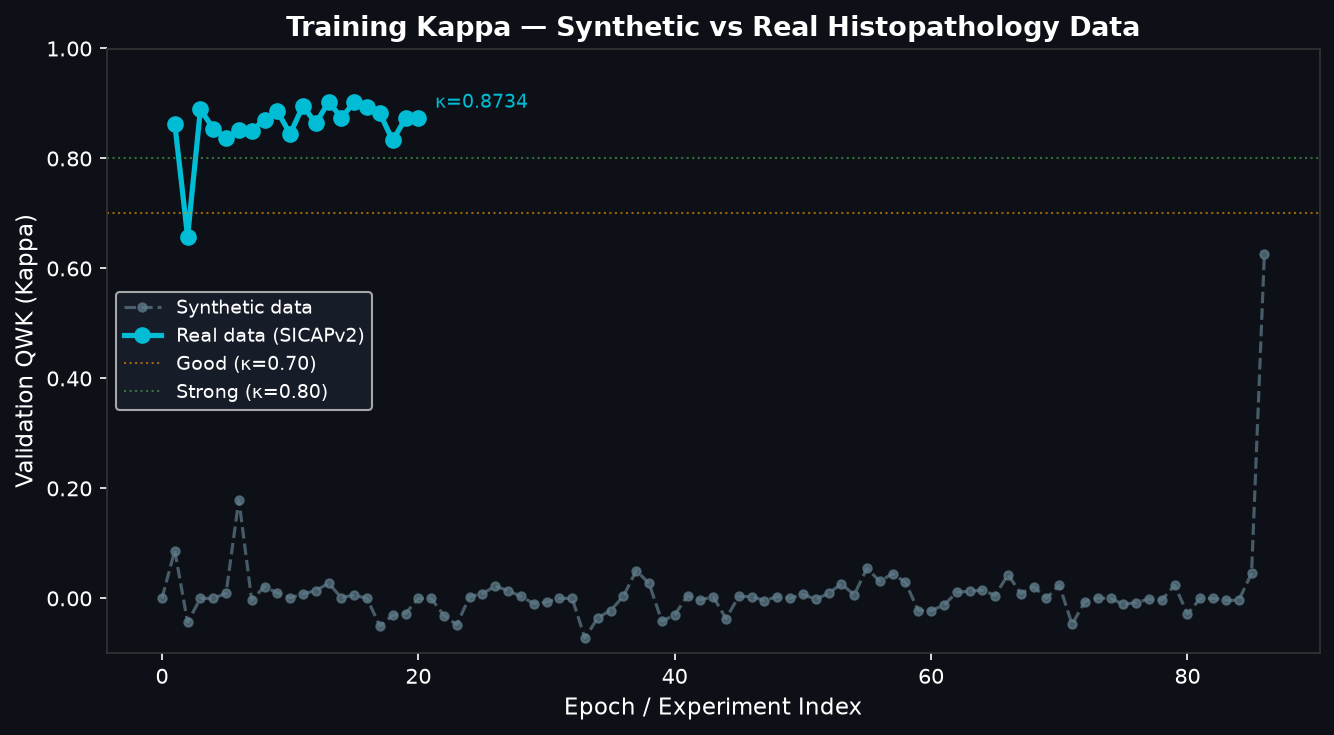
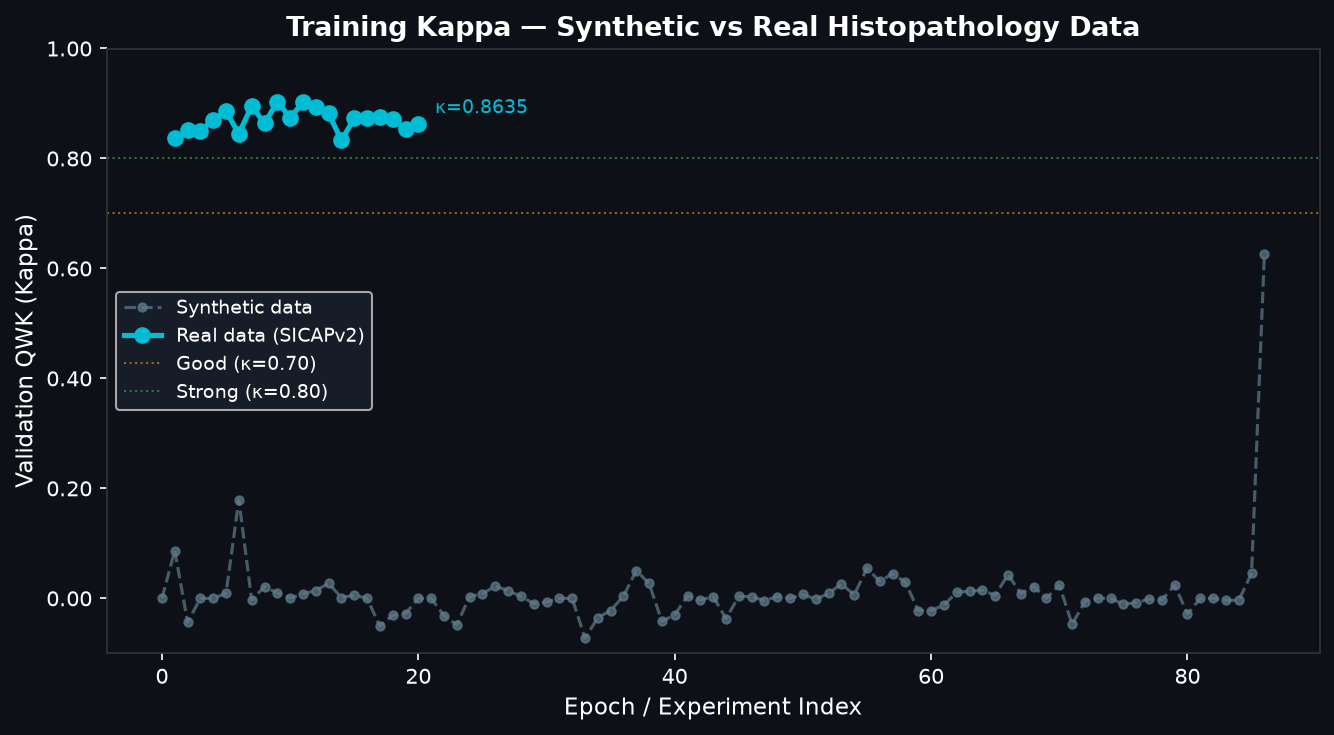
docs(auto): update results & paper after sweep backbone=resnet50 kappa=[latest]

Changed region(s): [[0.1229, 0.1197, 0.3996, 0.3293]]

diff --git a/docs/RESULTS.md b/docs/RESULTS.md
@@ -1,6 +1,6 @@
 # Prostate CADx — Experiment Results
 
-> Auto-generated: 2026-07-12 16:31 UTC
+> Auto-generated: 2026-07-12 17:13 UTC
 
 ## Summary (Best Real-Data Run)
 
@@ -425,6 +425,10 @@
 | 402 | 2026-07-12 16:19:25 | Real (SICAPv2) | 2 | 32 | 0.8327 | 0.4800 |
 | 403 | 2026-07-12 16:25:34 | Real (SICAPv2) | 3 | 32 | 0.8730 | 0.5111 |
 | 404 | 2026-07-12 16:31:42 | Real (SICAPv2) | 4 | 32 | 0.8734 | 0.5139 |
+| 405 | 2026-07-12 16:51:49 | Real (SICAPv2) | 1 | 32 | 0.8762 | 0.4389 |
+| 406 | 2026-07-12 16:59:06 | Real (SICAPv2) | 2 | 32 | 0.8724 | 0.4429 |
+| 407 | 2026-07-12 17:06:21 | Real (SICAPv2) | 3 | 32 | 0.8530 | 0.4850 |
+| 408 | 2026-07-12 17:13:36 | Real (SICAPv2) | 4 | 32 | 0.8635 | 0.5093 |
 
 ---
 
@@ -433,8 +437,8 @@
 | Metric | Synthetic (Fallback) | Real (SICAPv2) |
 |--------|---------------------|----------------|
 | Best Val Kappa | 0.6269 | **0.9234** |
-| Mean Val Kappa | 0.0103 | 0.8409 |
-| N Experiments | 87 | 317 |
+| Mean Val Kappa | 0.0103 | 0.8412 |
+| N Experiments | 87 | 321 |
 
 ---
 